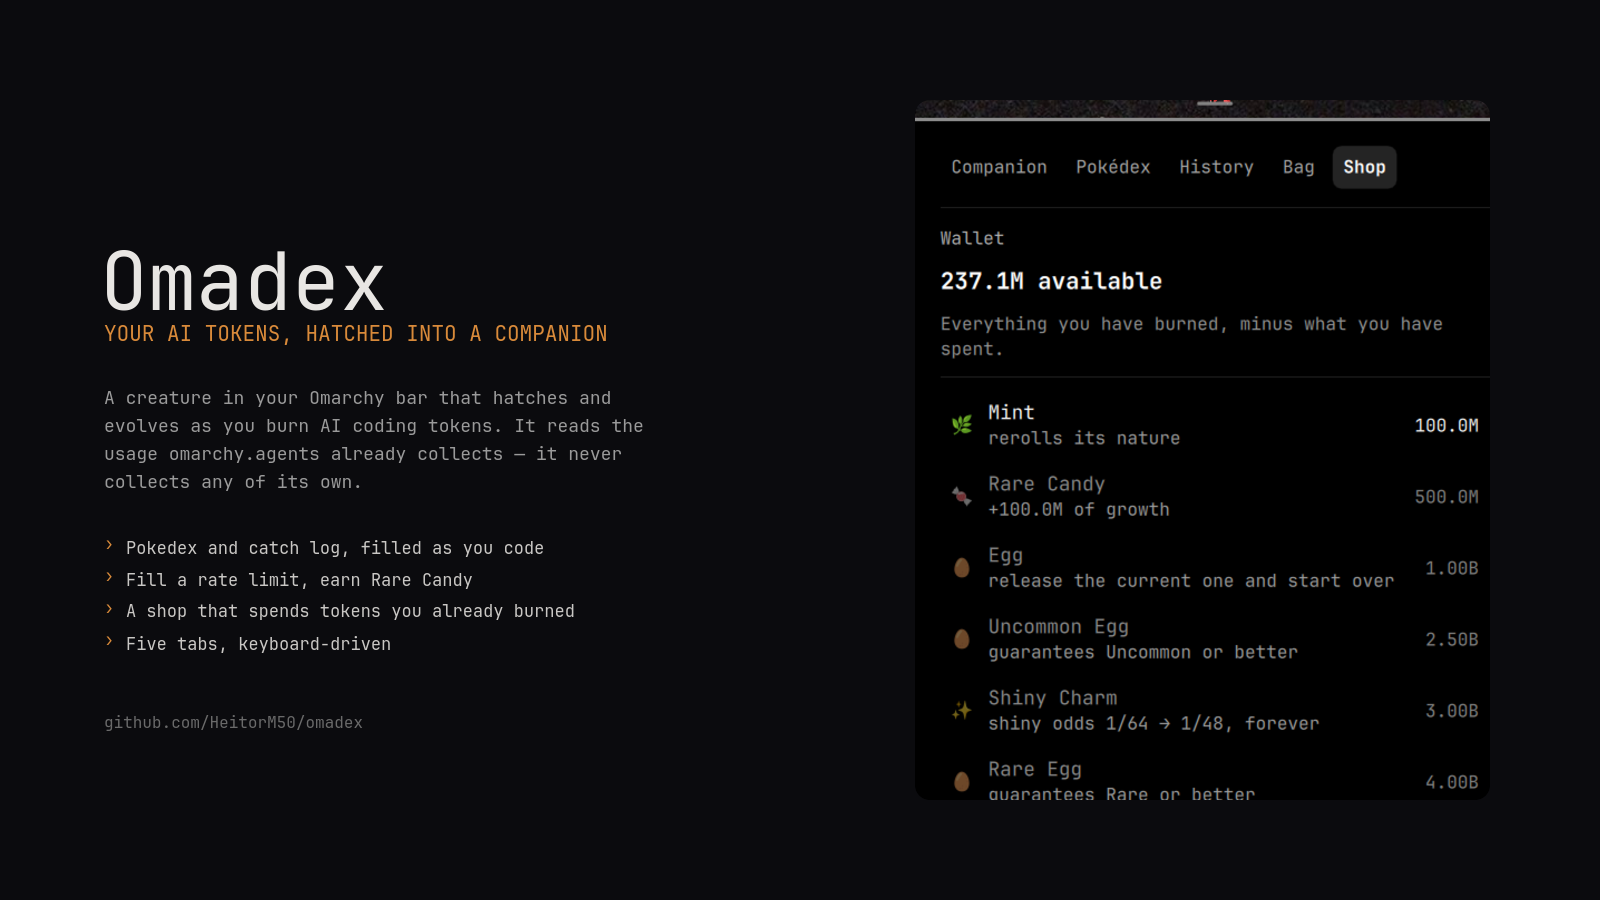
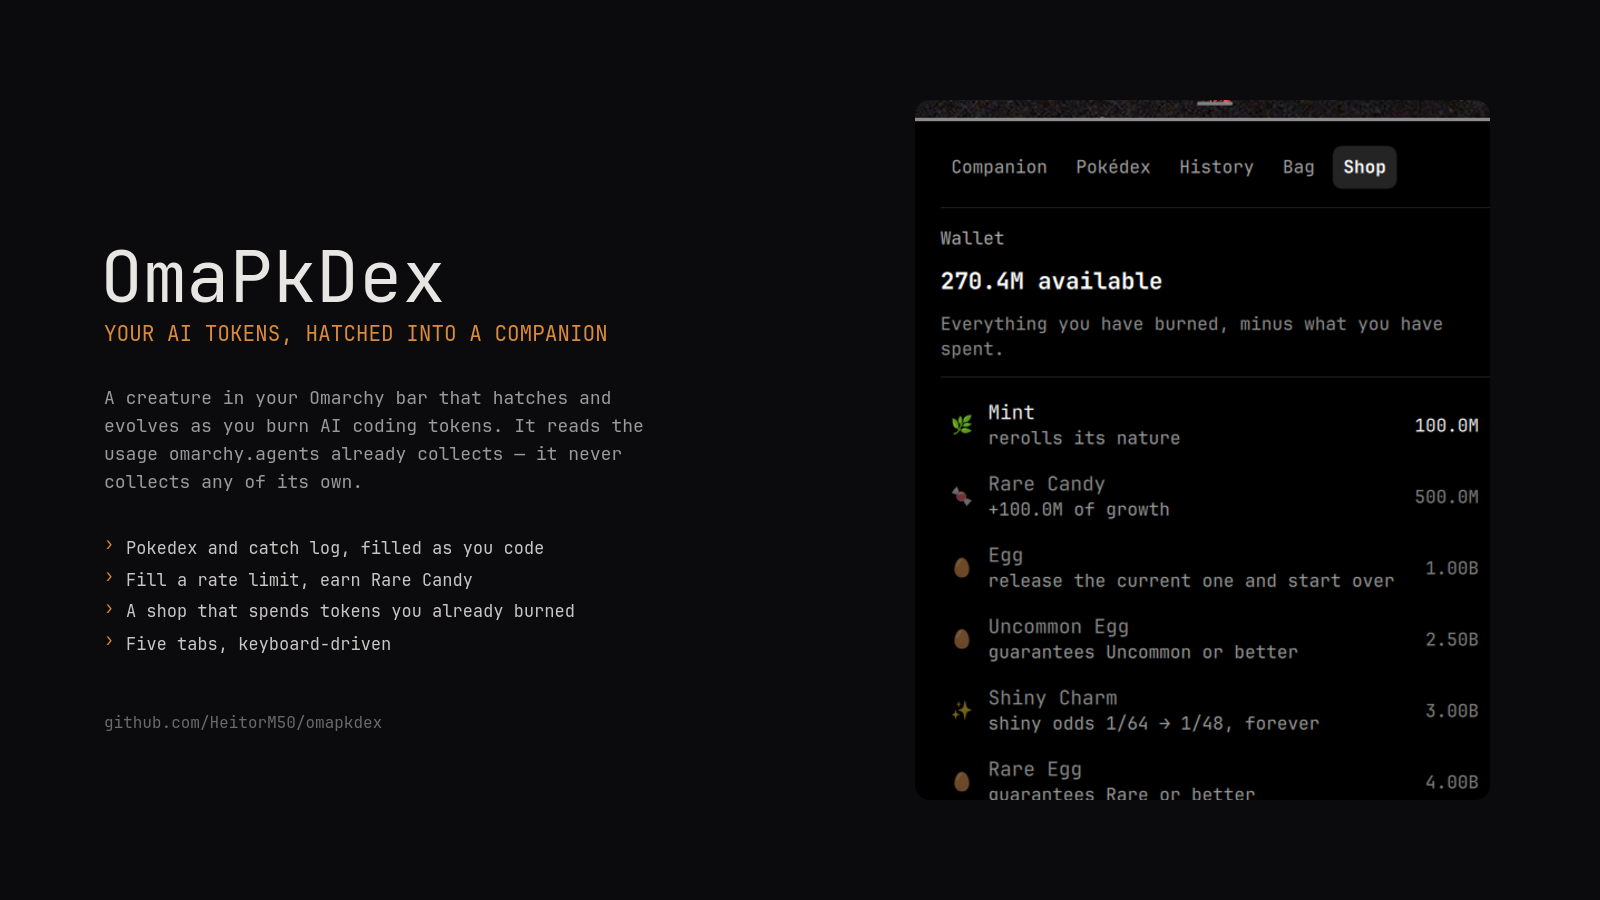
Renomeia para OmaPkDex: o nome Omadex já estava em uso
Existe um "OmaDex" publicado no marketplace (io.github.peteonrails.omadex), e
duas listagens com o mesmo nome de exibição só confundiriam quem procura. O erro
foi meu: eu tinha o catálogo em mãos quando sugeri o nome e não cruzei a lista.

Novo id: io.github.heitorm50.omapkdex. O "Pk" no meio mantém a dica do que o
plugin faz sem colocar a marca no título, que era o motivo de sair de
PokeTokenBar — o precedente que passou pela verificação do marketplace usa nome
cunhado.

Alcança as mesmas peças do rename anterior: diretório do plugin, helper
(bin/omapkdex-sync), moduleName, alvo de IPC, MODULE no Python, entrada no
shell.json, diretórios de estado e cache, e os caminhos absolutos de sprite
gravados dentro de companion.json e collection.json. Esses últimos são o ponto
fácil de esquecer: sem migrá-los os sprites desaparecem sem erro, porque
apontariam para o cache antigo.

preview.png refeito com o nome e a URL novos.

404 asserções em sete suítes, verdes.

Changed region(s): [[0.0625, 0.28, 0.2812, 0.3422], [0.5938, 0.28, 0.625, 0.3422], [0.2188, 0.7778, 0.25, 0.8089]]

diff --git a/BarWidget.qml b/BarWidget.qml
@@ -9,7 +9,7 @@ import "Collection.js" as Collection
 // Sprite do companion no bar, e host do popout.
 //
 // Este widget observa e orquestra; não muta nada. Quem acumula tokens, avança
-// estágios e escreve state.json é `bin/omadex-sync absorb`, disparado aqui por
+// estágios e escreve state.json é `bin/omapkdex-sync absorb`, disparado aqui por
 // timer. O motivo é que o bar instancia um widget por monitor: dois widgets
 // acumulando o mesmo delta contariam em dobro, e o arquivo teria dois
 // escritores. Com a mutação no helper, atrás de um flock, o número de monitores
@@ -23,7 +23,7 @@ import "Collection.js" as Collection
 // provedores. Quem atualiza os records é o timer do omarchy.agents.
 BarWidget {
   id: root
-  moduleName: "io.github.heitorm50.omadex"
+  moduleName: "io.github.heitorm50.omapkdex"
 
   // Nenhuma propriedade de caminho é injetada nos slots de bar-widget, então o
   // diretório do plugin tem de ser recuperado da URL deste arquivo.
@@ -409,8 +409,8 @@ BarWidget {
   Process {
     id: absorbProc
     command: root.seedFromExisting
-             ? [root.pluginDir + "/bin/omadex-sync", "absorb", String(root.difficulty), "seed"]
-             : [root.pluginDir + "/bin/omadex-sync", "absorb", String(root.difficulty)]
+             ? [root.pluginDir + "/bin/omapkdex-sync", "absorb", String(root.difficulty), "seed"]
+             : [root.pluginDir + "/bin/omapkdex-sync", "absorb", String(root.difficulty)]
     stdout: StdioCollector { waitForEnd: true }
     stderr: StdioCollector { waitForEnd: true }
     // O helper escreve state.json e, quando precisa, companion.json; os
@@ -423,7 +423,7 @@ BarWidget {
     id: buyProc
     property string key: ""
     property string tier: ""
-    command: [root.pluginDir + "/bin/omadex-sync", "buy", key,
+    command: [root.pluginDir + "/bin/omapkdex-sync", "buy", key,
               String(root.shopDifficulty)].concat(tier ? [tier] : [])
     stdout: StdioCollector { waitForEnd: true }
     stderr: StdioCollector { waitForEnd: true }
@@ -436,7 +436,7 @@ BarWidget {
   Process {
     id: useProc
     property string key: ""
-    command: [root.pluginDir + "/bin/omadex-sync", "use", key, String(root.difficulty)]
+    command: [root.pluginDir + "/bin/omapkdex-sync", "use", key, String(root.difficulty)]
     stdout: StdioCollector { waitForEnd: true }
     stderr: StdioCollector { waitForEnd: true }
     onExited: function (code) {
@@ -459,7 +459,7 @@ BarWidget {
 
   Process {
     id: hatchProc
-    command: [root.pluginDir + "/bin/omadex-sync", "hatch"]
+    command: [root.pluginDir + "/bin/omapkdex-sync", "hatch"]
     stdout: StdioCollector { waitForEnd: true }
     stderr: StdioCollector { waitForEnd: true }
   }
@@ -492,7 +492,7 @@ BarWidget {
   }
 
   IpcHandler {
-    target: "io.github.heitorm50.omadex"
+    target: "io.github.heitorm50.omapkdex"
 
     function open(): void { root.open() }
     function close(): void { root.close() }

diff --git a/Balance.js b/Balance.js
@@ -84,15 +84,15 @@ function progress(rarity, totalForms, stageIndex, tokensIntoStage, difficulty,
 }
 
 // A mutação da progressão (acumular deltas, avançar estágios, graduar) NÃO
-// vive aqui: é do `bin/omadex-sync absorb`, o único escritor do state.json.
+// vive aqui: é do `bin/omapkdex-sync absorb`, o único escritor do state.json.
 // Duplicá-la em JS criaria duas implementações da mesma regra para divergir.
 // Este arquivo é matemática de leitura: limiares, progresso e formatação.
 
 // ---- Economia ------------------------------------------------------------
 //
 // Os preços têm de sair do MESMO lugar que o helper usa, senão a loja mostra um
-// número e o `omadex-sync buy` cobra outro. Estas constantes são as mesmas de
-// bin/omadex-sync, e tests/test_shop.mjs trava as duas listas no mesmo valor.
+// número e o `omapkdex-sync buy` cobra outro. Estas constantes são as mesmas de
+// bin/omapkdex-sync, e tests/test_shop.mjs trava as duas listas no mesmo valor.
 
 var RARE_CANDY_PRICE = 500000000
 var MINT_PRICE = 100000000

diff --git a/Panel.qml b/Panel.qml
@@ -16,7 +16,7 @@ import qs.Ui
 // tokens por dia e quebra por modelo já estão a um clique no bar.
 Panel {
   id: root
-  moduleName: "io.github.heitorm50.omadex"
+  moduleName: "io.github.heitorm50.omapkdex"
   ipcTarget: ""
   manageIpc: false
 

diff --git a/tests/test_absorb.py b/tests/test_absorb.py
@@ -2,9 +2,9 @@
 """Testa cmd_absorb contra os records reais, num XDG_STATE_HOME temporário."""
 import importlib.machinery, importlib.util, json, os, shutil, tempfile
 
-PLUGIN = os.path.expanduser('~/.config/omarchy/plugins/io.github.heitorm50.omadex/bin/omadex-sync')
+PLUGIN = os.path.expanduser('~/.config/omarchy/plugins/io.github.heitorm50.omapkdex/bin/omapkdex-sync')
 REAL = os.path.expanduser('~/.local/state/omarchy/agents/usage')
-MODULE = 'io.github.heitorm50.omadex'
+MODULE = 'io.github.heitorm50.omapkdex'
 
 fails = 0
 def eq(label, got, want):

diff --git a/tests/test_resilience.py b/tests/test_resilience.py
@@ -15,9 +15,9 @@ import tempfile
 import urllib.error
 
 PLUGIN = os.path.expanduser(
-    '~/.config/omarchy/plugins/io.github.heitorm50.omadex/bin/omadex-sync')
+    '~/.config/omarchy/plugins/io.github.heitorm50.omapkdex/bin/omapkdex-sync')
 REAL_USAGE = os.path.expanduser('~/.local/state/omarchy/agents/usage')
-MODULE = 'io.github.heitorm50.omadex'
+MODULE = 'io.github.heitorm50.omapkdex'
 
 fails = 0
 

diff --git a/tests/test_ditto.py b/tests/test_ditto.py
@@ -13,9 +13,9 @@ import shutil
 import tempfile
 
 PLUGIN = os.path.expanduser(
-    '~/.config/omarchy/plugins/io.github.heitorm50.omadex/bin/omadex-sync')
+    '~/.config/omarchy/plugins/io.github.heitorm50.omapkdex/bin/omapkdex-sync')
 REAL_USAGE = os.path.expanduser('~/.local/state/omarchy/agents/usage')
-MODULE = 'io.github.heitorm50.omadex'
+MODULE = 'io.github.heitorm50.omapkdex'
 
 fails = 0
 

diff --git a/tests/test_economy.py b/tests/test_economy.py
@@ -15,9 +15,9 @@ import shutil
 import tempfile
 
 PLUGIN = os.path.expanduser(
-    '~/.config/omarchy/plugins/io.github.heitorm50.omadex/bin/omadex-sync')
+    '~/.config/omarchy/plugins/io.github.heitorm50.omapkdex/bin/omapkdex-sync')
 REAL_USAGE = os.path.expanduser('~/.local/state/omarchy/agents/usage')
-MODULE = 'io.github.heitorm50.omadex'
+MODULE = 'io.github.heitorm50.omapkdex'
 
 fails = 0
 

diff --git a/tests/test_collection.py b/tests/test_collection.py
@@ -12,7 +12,7 @@ import shutil
 import tempfile
 
 PLUGIN = os.path.expanduser(
-    '~/.config/omarchy/plugins/io.github.heitorm50.omadex/bin/omadex-sync')
+    '~/.config/omarchy/plugins/io.github.heitorm50.omapkdex/bin/omapkdex-sync')
 
 fails = 0
 

diff --git a/README.md b/README.md
@@ -1,4 +1,4 @@
-# Omadex
+# OmaPkDex
 
 A creature in your Omarchy bar that hatches and evolves as you burn AI coding
 tokens. A Pokédex, a catch log, Rare Candy for filling rate limits, and a shop
@@ -11,13 +11,13 @@ that spends the tokens you have already used.
 
 ## Requires `omarchy.agents`
 
-**Omadex collects no usage of its own.** It reads the records that the
+**OmaPkDex collects no usage of its own.** It reads the records that the
 first-party `omarchy.agents` plugin writes to
 `~/.local/state/omarchy/agents/usage/*.json`.
 
 That plugin must be **enabled and have recorded usage** — which means you need
 at least one AI coding CLI (Claude Code, Codex, Fireworks) that has actually
-run. Until a record exists, Omadex shows an egg and never hatches. That is not
+run. Until a record exists, OmaPkDex shows an egg and never hatches. That is not
 a failure: there is simply nothing to grow on yet.
 
 `omarchy.agents` ships with Omarchy and self-hides when no usage exists, so if
@@ -26,13 +26,13 @@ you see its robot icon in your bar, you are ready.
 ## Install
 
 ```bash
-omarchy plugin add https://github.com/HeitorM50/omadex.git --enable
+omarchy plugin add https://github.com/HeitorM50/omapkdex.git --enable
 ```
 
 Then add it to the bar:
 
 ```bash
-omarchy bar add io.github.heitorm50.omadex --section right
+omarchy bar add io.github.heitorm50.omapkdex --section right
 ```
 
 ### Dependencies
@@ -46,25 +46,25 @@ omarchy bar add io.github.heitorm50.omadex --section right
 ## Remove
 
 ```bash
-omarchy bar remove io.github.heitorm50.omadex
-omarchy plugin remove io.github.heitorm50.omadex
+omarchy bar remove io.github.heitorm50.omapkdex
+omarchy plugin remove io.github.heitorm50.omapkdex
 ```
 
 Your progress and the sprite cache are left behind on purpose, so a reinstall
 picks up where you left off. To erase them too:
 
 ```bash
-rm -rf ~/.local/state/omarchy/io.github.heitorm50.omadex
-rm -rf ~/.cache/omarchy/io.github.heitorm50.omadex
+rm -rf ~/.local/state/omarchy/io.github.heitorm50.omapkdex
+rm -rf ~/.cache/omarchy/io.github.heitorm50.omapkdex
 ```
 
-Omadex writes nowhere else. The only change it makes to your Omarchy config is
+OmaPkDex writes nowhere else. The only change it makes to your Omarchy config is
 its own widget entry in `shell.json`, which `omarchy bar remove` takes out.
 
 ## How it works
 
 The records are a public contract of `omarchy.agents` (`schemaVersion: 1`,
-documented at `/usr/share/omarchy/shell/plugins/agents/README.md`). Omadex is a
+documented at `/usr/share/omarchy/shell/plugins/agents/README.md`). OmaPkDex is a
 read-only consumer: it never runs `omarchy-agent-usage-update` and never talks
 to the providers' APIs.
 
@@ -99,7 +99,7 @@ reads session files touched in the last 30 days, and the Fireworks one asks its
 billing API for 30 days. Summing `modelUsage` on every read would give a total
 that *shrinks* when sessions age out — and a creature that de-evolves.
 
-So Omadex keeps the last total seen per agent and accumulates only positive
+So OmaPkDex keeps the last total seen per agent and accumulates only positive
 deltas. A record that shrinks, zeroes, or is rewritten contributes nothing,
 never negative.
 
@@ -189,7 +189,7 @@ BagView.qml        |
 ShopView.qml       /
 Balance.js         read-side math (thresholds, progress, prices, formatting)
 Collection.js      the Pokédex projection over the catch log
-bin/omadex-sync    the only writer: PokéAPI, sprites, and all state mutation
+bin/omapkdex-sync  the only writer: PokéAPI, sprites, and all state mutation
 ```
 
 State mutation lives in the helper, not in QML, because **the bar instantiates
@@ -202,21 +202,21 @@ testable in Python instead of mirrored between QML and a test.
 
 | Path | Written by |
 |---|---|
-| `~/.local/state/omarchy/<id>/state.json` | `omadex-sync absorb` |
-| `~/.local/state/omarchy/<id>/companion.json` | `omadex-sync hatch` |
+| `~/.local/state/omarchy/<id>/state.json` | `omapkdex-sync absorb` |
+| `~/.local/state/omarchy/<id>/companion.json` | `omapkdex-sync hatch` |
 | `~/.local/state/omarchy/<id>/collection.json` | `absorb`, `hatch`, `buy`, `use` |
-| `~/.cache/omarchy/<id>/sprites/` | `omadex-sync` |
-| `~/.cache/omarchy/<id>/base-species.json` | `omadex-sync index` |
+| `~/.cache/omarchy/<id>/sprites/` | `omapkdex-sync` |
+| `~/.cache/omarchy/<id>/base-species.json` | `omapkdex-sync index` |
 
 ### The helper
 
 ```bash
-bin/omadex-sync index                   # rebuild the 329 base-species index
-bin/omadex-sync hatch [tier]            # roll a species and resolve its line
-bin/omadex-sync sprites <ids...>        # (re)download sprites
-bin/omadex-sync absorb <dif> [seed]     # accumulate tokens, advance progress
-bin/omadex-sync buy <item> <dif> [tier] # rareCandy|mint|shinyCharm|egg
-bin/omadex-sync use <item> <dif>        # rareCandy|mint
+bin/omapkdex-sync index                   # rebuild the 329 base-species index
+bin/omapkdex-sync hatch [tier]            # roll a species and resolve its line
+bin/omapkdex-sync sprites <ids...>        # (re)download sprites
+bin/omapkdex-sync absorb <dif> [seed]     # accumulate tokens, advance progress
+bin/omapkdex-sync buy <item> <dif> [tier] # rareCandy|mint|shinyCharm|egg
+bin/omapkdex-sync use <item> <dif>        # rareCandy|mint
 ```
 
 Sprites are the animated Gen-V GIFs from
@@ -234,15 +234,15 @@ down.
 - **Pokédex:** hover shows the detail line below the grid; the star pins a
   species to the bar; clicking a species you have owned both ways swaps the
   artwork.
-- **IPC:** `omarchy-shell io.github.heitorm50.omadex <open|close|toggle|refresh|hatch|companion|dex|log|bag|shop>`
+- **IPC:** `omarchy-shell io.github.heitorm50.omapkdex <open|close|toggle|refresh|hatch|companion|dex|log|bag|shop>`
 
 ## Settings
 
 In `~/.config/omarchy/shell.json`, in the widget's entry:
 
 ```bash
-omarchy bar set io.github.heitorm50.omadex difficulty 1.0 --json
-omarchy bar set io.github.heitorm50.omadex showTokens false --json
+omarchy bar set io.github.heitorm50.omapkdex difficulty 1.0 --json
+omarchy bar set io.github.heitorm50.omapkdex showTokens false --json
 ```
 
 | Key | Default | What it does |

diff --git a/docs/aprendizados.md b/docs/aprendizados.md
@@ -83,7 +83,7 @@ componente de UI.
 O pior tempo perdido do projeto.
 
 Editei o `BarWidget.qml`, salvei, o journal registrou
-`Local plugin changed, reloading: io.github.heitorm50.omadex` — e o código
+`Local plugin changed, reloading: io.github.heitorm50.omapkdex` — e o código
 antigo continuou rodando. `console.log` novo não aparecia. O `state.json` era
 escrito por uma versão que eu já tinha apagado do disco, sem lock, porque aquela
 versão escrevia direto do QML.

diff --git a/THIRD_PARTY_NOTICES.md b/THIRD_PARTY_NOTICES.md
@@ -4,7 +4,7 @@
 
 This repository contains no third-party code, data, or images. Every species,
 evolution chain, and sprite is fetched over the network the first time it is
-needed and cached under `~/.cache/omarchy/io.github.heitorm50.omadex/`. No API
+needed and cached under `~/.cache/omarchy/io.github.heitorm50.omapkdex/`. No API
 key or account is required.
 
 ## PokéAPI
